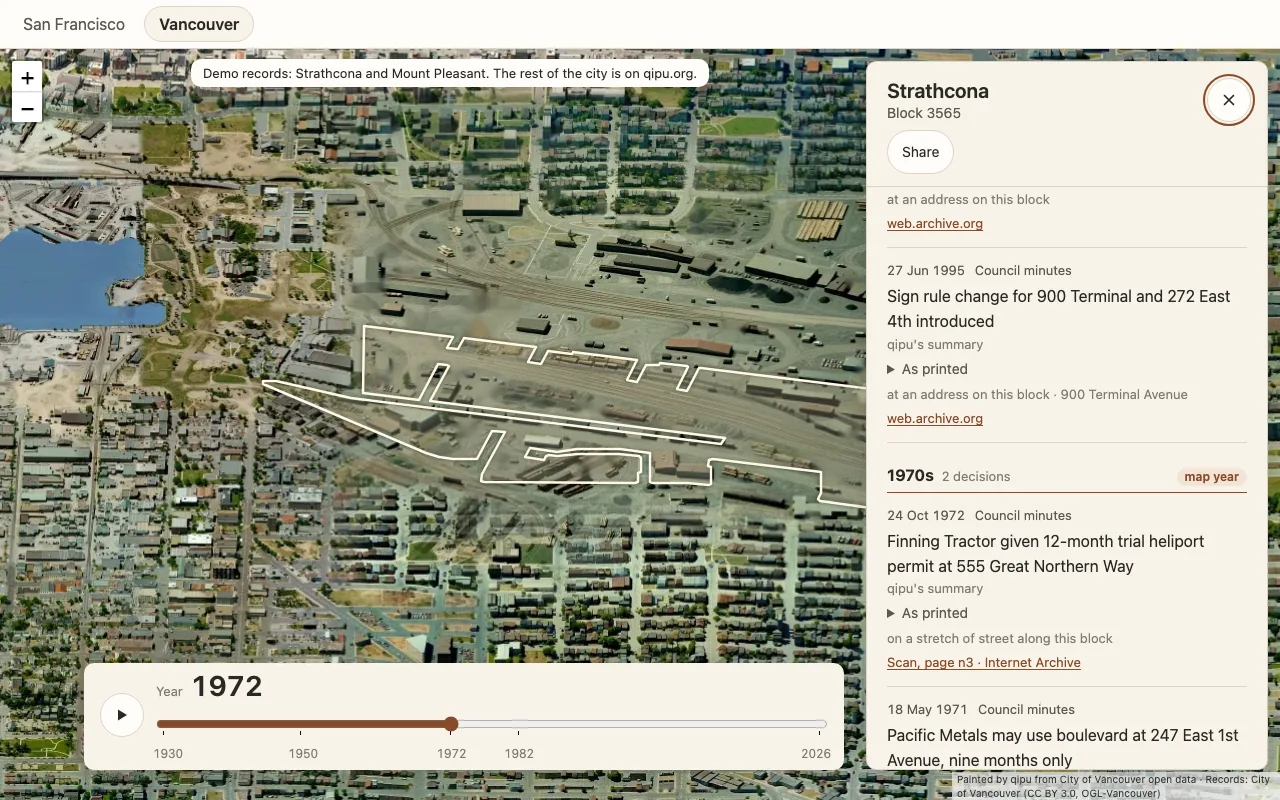
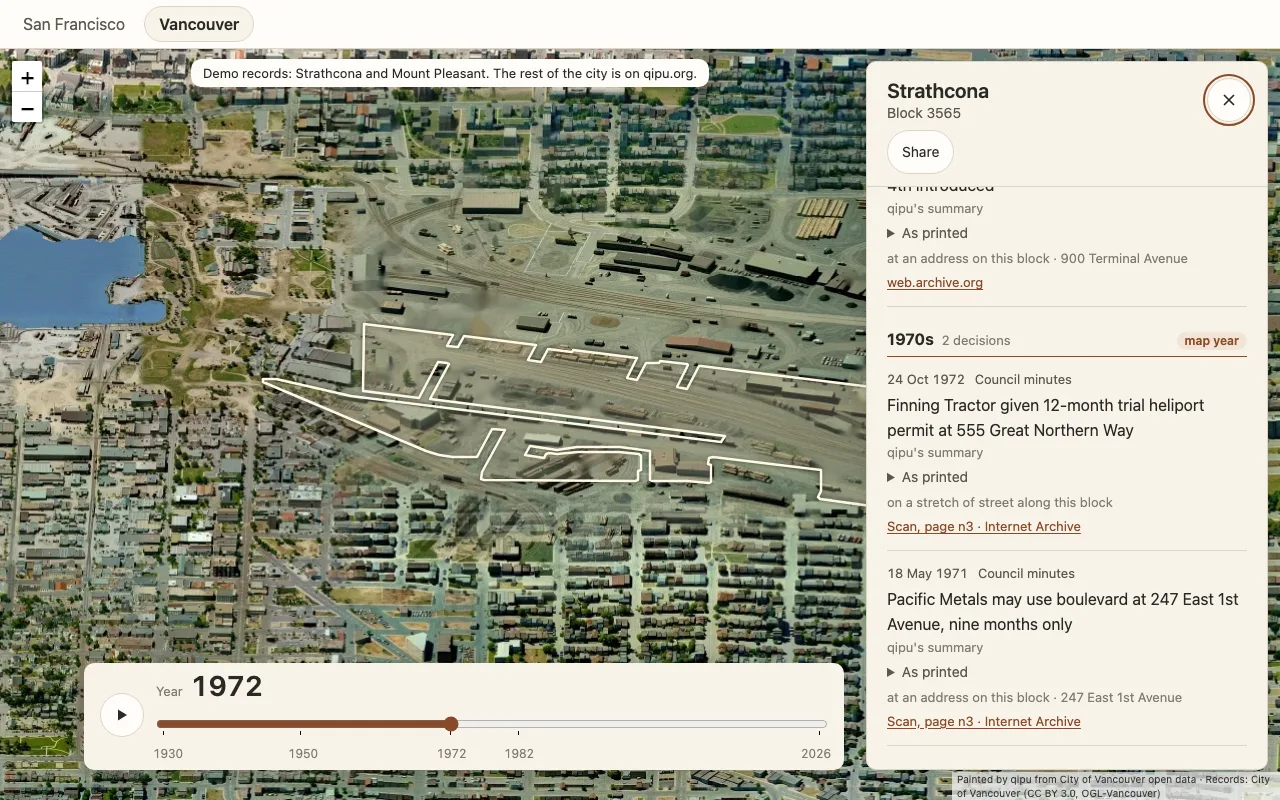
Open the demo on Strathcona in 1972 with a block's decisions, and retake the screenshot
With no link the demo opened zoomed out on 2026 with nothing selected, so the README
screenshot did not match it. It now opens on block 3565 in 1972. The screenshot shows
that view with the 1970s decisions in the panel, and the README says 1970s on.

Changed region(s): [[0.0, 0.0625, 1.0, 1.0], [0.9062, 0.5938, 0.9688, 0.625], [0.9688, 0.5625, 1.0, 0.5938]]

diff --git a/packages/viewer/demo/main.tsx b/packages/viewer/demo/main.tsx
@@ -21,7 +21,9 @@ function dataFor(city: CityConfig): CityConfig {
   return withDataBase(city, live ? path : `${import.meta.env.BASE_URL}sample/${city.id}`);
 }
 
-const initial = readViewState(window.location.search);
+/* with no link the demo opens where the README shows it: Strathcona in 1972, one block's decisions open */
+const linked = readViewState(window.location.search);
+const initial = Object.keys(linked).length > 0 ? linked : { city: "vancouver", year: 1972, block: "3565" };
 
 /* ?tiles=<release folder> opens a qipu-tiles/1 release written by packages/map-pipeline, over Vancouver's records */
 const release = new URLSearchParams(window.location.search).get("tiles");

diff --git a/packages/viewer/README.md b/packages/viewer/README.md
@@ -7,7 +7,7 @@ It reads the painted tiles that [`packages/map-pipeline`](../map-pipeline) write
 [`packages/records`](../records) produces once they are placed on the city's blocks. It runs in the browser and needs no server
 of its own.
 
-![The demo on Vancouver in 1972, with the decisions for one Strathcona block open beside the map](docs/screenshots/viewer-vancouver-1972.webp)
+![The demo on Vancouver in 1972, with the 1970s decisions for one Strathcona block open beside the map](docs/screenshots/viewer-vancouver-1972.webp)
 
 ## Quickstart
 
@@ -15,7 +15,7 @@ You need Node 20 or newer. From this folder:
 
 ```sh
 make install    # npm ci: exactly the versions in package-lock.json
-make demo       # the demo app at http://localhost:5173, opening on Vancouver
+make demo       # the demo app at http://localhost:5173, opening on Strathcona in 1972 with one block's decisions open
 ```
 
 The demo draws the live tiles from tiles.qipu.org (read only) and the block records from a sample in

diff --git a/README.md b/README.md
@@ -18,9 +18,9 @@ open city data ──────────────────▶ painted
                                    packages/map-pipeline
 ```
 
-![The viewer demo on Vancouver in 1972, with the decisions for one Strathcona block open beside the map](docs/images/viewer-vancouver-1972.webp)
+![The viewer demo on Vancouver in 1972, with the 1970s decisions for one Strathcona block open beside the map](docs/images/viewer-vancouver-1972.webp)
 
-**Live demo:** https://www.qipu.org/vancouver, Vancouver City Council decisions from the 1960s to the 1980s on the map.
+**Live demo:** https://www.qipu.org/vancouver, Vancouver City Council decisions from the 1970s on, on the map.
 
 | package | what it does | language |
 |---|---|---|
